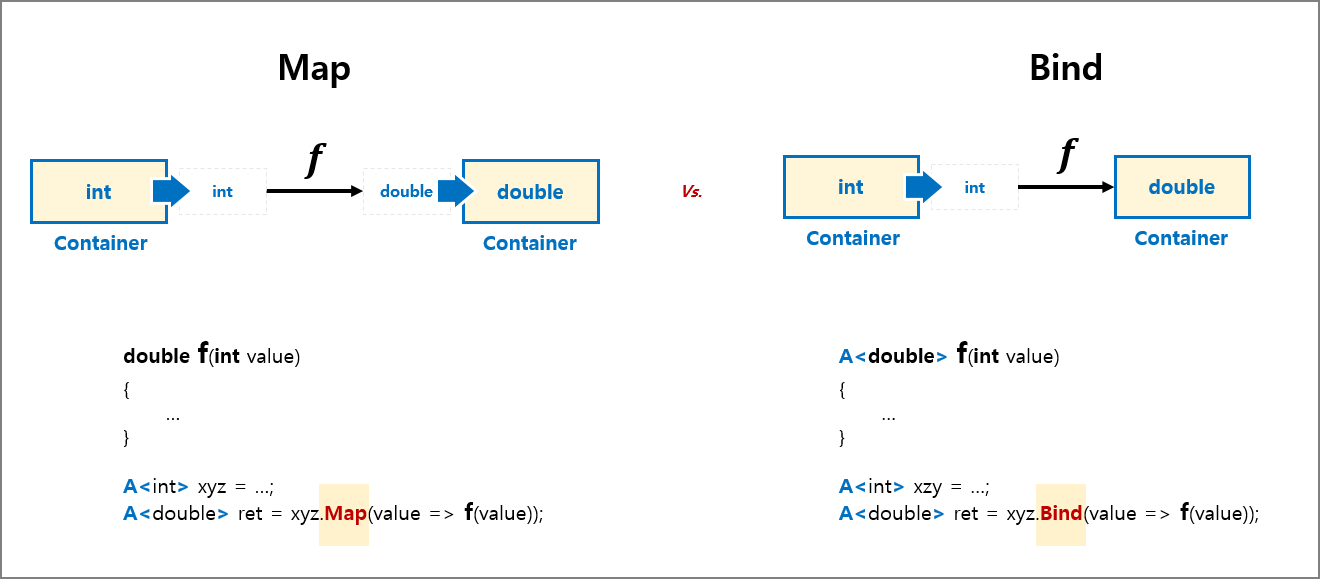
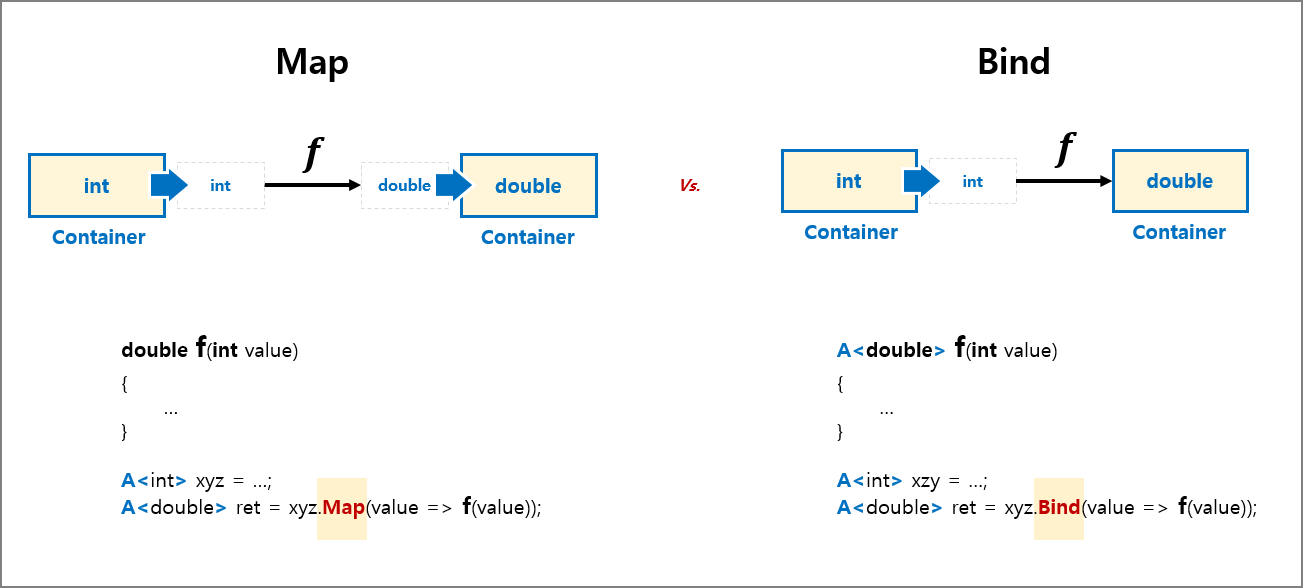
update readme.md

diff --git a/README.md b/README.md
@@ -56,7 +56,7 @@
       ↓
    Composition : Function Flow → Readable
    ```
-1. 모나드  
+1. Map vs. Bind  
    <img src="./Images/Map_vs_Bind.png"/>
 
 ### 2. 자료구조
